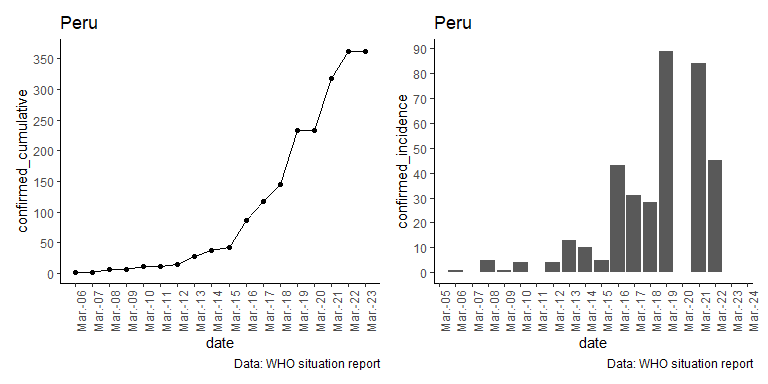
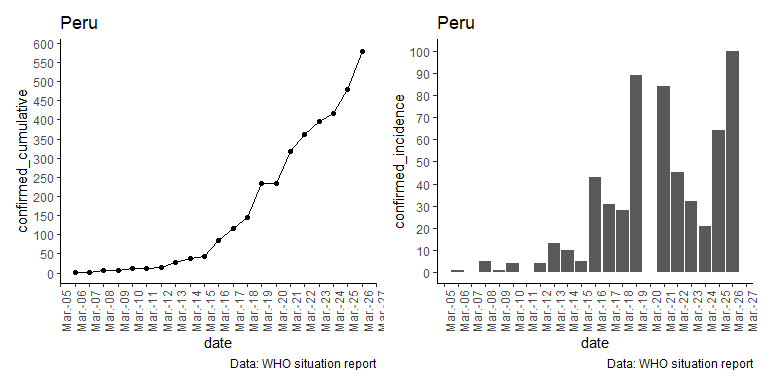
update readme

diff --git a/docs/reference/jhu_sitrep_import.html b/docs/reference/jhu_sitrep_import.html
@@ -121,7 +121,9 @@
 
 <span class='fu'>jhu_sitrep_all_sources_tidy</span>(<span class='no'>data</span>, <span class='kw'>data_filter</span> <span class='kw'>=</span> <span class='no'>data_filter</span>)
 
-<span class='fu'>jhu_sitrep_country_report</span>(<span class='kw'>country_region</span> <span class='kw'>=</span> <span class='st'>"Peru"</span>)</pre>
+<span class='fu'>jhu_sitrep_country_report</span>(<span class='kw'>country_region</span> <span class='kw'>=</span> <span class='st'>"Peru"</span>)
+
+<span class='fu'>jhu_sitrep_cleandb_country_only</span>(<span class='no'>data</span>)</pre>
     
     <h2 class="hasAnchor" id="arguments"><a class="anchor" href="#arguments"></a>Arguments</h2>
     <table class="ref-arguments">
@@ -163,16 +165,17 @@
 <li><p><code>jhu_sitrep_all_sources</code>: clean jhu dataset</p></li>
 <li><p><code>jhu_sitrep_all_sources_tidy</code>: clean jhu dataset</p></li>
 <li><p><code>jhu_sitrep_country_report</code>: clean jhu dataset</p></li>
+<li><p><code>jhu_sitrep_cleandb_country_only</code>: import only numbers for the country</p></li>
 </ul>
     
 
     <h2 class="hasAnchor" id="examples"><a class="anchor" href="#examples"></a>Examples</h2>
     <pre class="examples"><div class='input'>
 <span class='fu'><a href='https://rdrr.io/r/base/library.html'>library</a></span>(<span class='no'>covid19viz</span>)
-<span class='fu'><a href='https://rdrr.io/r/base/library.html'>library</a></span>(<span class='no'>tidyverse</span>)</div><div class='output co'>#&gt; <span class='message'>-- <span style='font-weight: bold;'>Attaching packages</span><span> -------------------------------------------------------- tidyverse 1.2.1 --</span></div><div class='output co'>#&gt; <span class='message'></span><span style='color: #00BB00;'>v</span><span> </span><span style='color: #0000BB;'>ggplot2</span><span> 3.2.1     </span><span style='color: #00BB00;'>v</span><span> </span><span style='color: #0000BB;'>purrr  </span><span> 0.3.3</span>
+<span class='fu'><a href='https://rdrr.io/r/base/library.html'>library</a></span>(<span class='no'>tidyverse</span>)</div><div class='output co'>#&gt; <span class='message'>-- <span style='font-weight: bold;'>Attaching packages</span><span> ---------------------------------------------------------------- tidyverse 1.2.1 --</span></div><div class='output co'>#&gt; <span class='message'></span><span style='color: #00BB00;'>v</span><span> </span><span style='color: #0000BB;'>ggplot2</span><span> 3.2.1     </span><span style='color: #00BB00;'>v</span><span> </span><span style='color: #0000BB;'>purrr  </span><span> 0.3.3</span>
 #&gt; <span class='message'></span><span style='color: #00BB00;'>v</span><span> </span><span style='color: #0000BB;'>tibble </span><span> 2.1.3     </span><span style='color: #00BB00;'>v</span><span> </span><span style='color: #0000BB;'>dplyr  </span><span> 0.8.4</span>
 #&gt; <span class='message'></span><span style='color: #00BB00;'>v</span><span> </span><span style='color: #0000BB;'>tidyr  </span><span> 1.0.0     </span><span style='color: #00BB00;'>v</span><span> </span><span style='color: #0000BB;'>stringr</span><span> 1.4.0</span>
-#&gt; <span class='message'></span><span style='color: #00BB00;'>v</span><span> </span><span style='color: #0000BB;'>readr  </span><span> 1.3.1     </span><span style='color: #00BB00;'>v</span><span> </span><span style='color: #0000BB;'>forcats</span><span> 0.4.0</span></div><div class='output co'>#&gt; <span class='message'>-- </span><span style='font-weight: bold;'>Conflicts</span><span> ----------------------------------------------------------- tidyverse_conflicts() --</span>
+#&gt; <span class='message'></span><span style='color: #00BB00;'>v</span><span> </span><span style='color: #0000BB;'>readr  </span><span> 1.3.1     </span><span style='color: #00BB00;'>v</span><span> </span><span style='color: #0000BB;'>forcats</span><span> 0.4.0</span></div><div class='output co'>#&gt; <span class='message'>-- </span><span style='font-weight: bold;'>Conflicts</span><span> ------------------------------------------------------------------- tidyverse_conflicts() --</span>
 #&gt; <span class='message'></span><span style='color: #BB0000;'>x</span><span> </span><span style='color: #0000BB;'>dplyr</span><span>::</span><span style='color: #00BB00;'>filter()</span><span> masks </span><span style='color: #0000BB;'>stats</span><span>::filter()</span>
 #&gt; <span class='message'></span><span style='color: #BB0000;'>x</span><span> </span><span style='color: #0000BB;'>dplyr</span><span>::</span><span style='color: #00BB00;'>lag()</span><span>    masks </span><span style='color: #0000BB;'>stats</span><span>::lag()</span></div><div class='input'>
 <span class='no'>jhu_sitrep</span> <span class='kw'>&lt;-</span> <span class='fu'>jhu_sitrep_import</span>(<span class='kw'>source</span> <span class='kw'>=</span> <span class='st'>"confirmed"</span>)</div><div class='output co'>#&gt; <span class='message'>Parsed with column specification:</span>
@@ -184,20 +187,91 @@
 <span class='no'>jhu_sitrep</span> <span class='kw'>%&gt;%</span>
   <span class='fu'>jhu_sitrep_cleandb</span>() <span class='kw'>%&gt;%</span>
   <span class='fu'><a href='https://rdrr.io/r/stats/filter.html'>filter</a></span>(<span class='no'>country_region</span><span class='kw'>==</span><span class='st'>"Peru"</span>) <span class='kw'>%&gt;%</span>
-  <span class='fu'>arrange</span>(<span class='fu'>desc</span>(<span class='no'>dates</span>))</div><div class='output co'>#&gt; </span><span style='color: #555555;'># A tibble: 57 x 7</span><span>
+  <span class='fu'>arrange</span>(<span class='fu'>desc</span>(<span class='no'>dates</span>))</div><div class='output co'>#&gt; </span><span style='color: #555555;'># A tibble: 65 x 7</span><span>
 #&gt;    source    country_region province_state   lat  long dates      value
 #&gt;    </span><span style='color: #555555;font-style: italic;'>&lt;chr&gt;</span><span>     </span><span style='color: #555555;font-style: italic;'>&lt;chr&gt;</span><span>          </span><span style='color: #555555;font-style: italic;'>&lt;chr&gt;</span><span>          </span><span style='color: #555555;font-style: italic;'>&lt;dbl&gt;</span><span> </span><span style='color: #555555;font-style: italic;'>&lt;dbl&gt;</span><span> </span><span style='color: #555555;font-style: italic;'>&lt;date&gt;</span><span>     </span><span style='color: #555555;font-style: italic;'>&lt;dbl&gt;</span><span>
-#&gt; </span><span style='color: #555555;'> 1</span><span> confirmed Peru           </span><span style='color: #BB0000;'>NA</span><span>             -</span><span style='color: #BB0000;'>9.19</span><span> -</span><span style='color: #BB0000;'>75.0</span><span> 2020-03-18   145
-#&gt; </span><span style='color: #555555;'> 2</span><span> confirmed Peru           </span><span style='color: #BB0000;'>NA</span><span>             -</span><span style='color: #BB0000;'>9.19</span><span> -</span><span style='color: #BB0000;'>75.0</span><span> 2020-03-17   117
-#&gt; </span><span style='color: #555555;'> 3</span><span> confirmed Peru           </span><span style='color: #BB0000;'>NA</span><span>             -</span><span style='color: #BB0000;'>9.19</span><span> -</span><span style='color: #BB0000;'>75.0</span><span> 2020-03-16    86
-#&gt; </span><span style='color: #555555;'> 4</span><span> confirmed Peru           </span><span style='color: #BB0000;'>NA</span><span>             -</span><span style='color: #BB0000;'>9.19</span><span> -</span><span style='color: #BB0000;'>75.0</span><span> 2020-03-15    43
-#&gt; </span><span style='color: #555555;'> 5</span><span> confirmed Peru           </span><span style='color: #BB0000;'>NA</span><span>             -</span><span style='color: #BB0000;'>9.19</span><span> -</span><span style='color: #BB0000;'>75.0</span><span> 2020-03-14    38
-#&gt; </span><span style='color: #555555;'> 6</span><span> confirmed Peru           </span><span style='color: #BB0000;'>NA</span><span>             -</span><span style='color: #BB0000;'>9.19</span><span> -</span><span style='color: #BB0000;'>75.0</span><span> 2020-03-13    28
-#&gt; </span><span style='color: #555555;'> 7</span><span> confirmed Peru           </span><span style='color: #BB0000;'>NA</span><span>             -</span><span style='color: #BB0000;'>9.19</span><span> -</span><span style='color: #BB0000;'>75.0</span><span> 2020-03-12    15
-#&gt; </span><span style='color: #555555;'> 8</span><span> confirmed Peru           </span><span style='color: #BB0000;'>NA</span><span>             -</span><span style='color: #BB0000;'>9.19</span><span> -</span><span style='color: #BB0000;'>75.0</span><span> 2020-03-11    11
-#&gt; </span><span style='color: #555555;'> 9</span><span> confirmed Peru           </span><span style='color: #BB0000;'>NA</span><span>             -</span><span style='color: #BB0000;'>9.19</span><span> -</span><span style='color: #BB0000;'>75.0</span><span> 2020-03-10    11
-#&gt; </span><span style='color: #555555;'>10</span><span> confirmed Peru           </span><span style='color: #BB0000;'>NA</span><span>             -</span><span style='color: #BB0000;'>9.19</span><span> -</span><span style='color: #BB0000;'>75.0</span><span> 2020-03-09     7
-#&gt; </span><span style='color: #555555;'># ... with 47 more rows</span><span></div><div class='input'>
+#&gt; </span><span style='color: #555555;'> 1</span><span> confirmed Peru           </span><span style='color: #BB0000;'>NA</span><span>             -</span><span style='color: #BB0000;'>9.19</span><span> -</span><span style='color: #BB0000;'>75.0</span><span> 2020-03-26   580
+#&gt; </span><span style='color: #555555;'> 2</span><span> confirmed Peru           </span><span style='color: #BB0000;'>NA</span><span>             -</span><span style='color: #BB0000;'>9.19</span><span> -</span><span style='color: #BB0000;'>75.0</span><span> 2020-03-25   480
+#&gt; </span><span style='color: #555555;'> 3</span><span> confirmed Peru           </span><span style='color: #BB0000;'>NA</span><span>             -</span><span style='color: #BB0000;'>9.19</span><span> -</span><span style='color: #BB0000;'>75.0</span><span> 2020-03-24   416
+#&gt; </span><span style='color: #555555;'> 4</span><span> confirmed Peru           </span><span style='color: #BB0000;'>NA</span><span>             -</span><span style='color: #BB0000;'>9.19</span><span> -</span><span style='color: #BB0000;'>75.0</span><span> 2020-03-23   395
+#&gt; </span><span style='color: #555555;'> 5</span><span> confirmed Peru           </span><span style='color: #BB0000;'>NA</span><span>             -</span><span style='color: #BB0000;'>9.19</span><span> -</span><span style='color: #BB0000;'>75.0</span><span> 2020-03-22   363
+#&gt; </span><span style='color: #555555;'> 6</span><span> confirmed Peru           </span><span style='color: #BB0000;'>NA</span><span>             -</span><span style='color: #BB0000;'>9.19</span><span> -</span><span style='color: #BB0000;'>75.0</span><span> 2020-03-21   318
+#&gt; </span><span style='color: #555555;'> 7</span><span> confirmed Peru           </span><span style='color: #BB0000;'>NA</span><span>             -</span><span style='color: #BB0000;'>9.19</span><span> -</span><span style='color: #BB0000;'>75.0</span><span> 2020-03-20   234
+#&gt; </span><span style='color: #555555;'> 8</span><span> confirmed Peru           </span><span style='color: #BB0000;'>NA</span><span>             -</span><span style='color: #BB0000;'>9.19</span><span> -</span><span style='color: #BB0000;'>75.0</span><span> 2020-03-19   234
+#&gt; </span><span style='color: #555555;'> 9</span><span> confirmed Peru           </span><span style='color: #BB0000;'>NA</span><span>             -</span><span style='color: #BB0000;'>9.19</span><span> -</span><span style='color: #BB0000;'>75.0</span><span> 2020-03-18   145
+#&gt; </span><span style='color: #555555;'>10</span><span> confirmed Peru           </span><span style='color: #BB0000;'>NA</span><span>             -</span><span style='color: #BB0000;'>9.19</span><span> -</span><span style='color: #BB0000;'>75.0</span><span> 2020-03-17   117
+#&gt; </span><span style='color: #555555;'># ... with 55 more rows</span><span></div><div class='input'>
+<span class='no'>jhu_sitrep</span> <span class='kw'>%&gt;%</span>
+  <span class='fu'>jhu_sitrep_cleandb_country_only</span>() <span class='kw'>%&gt;%</span>
+  <span class='fu'><a href='https://rdrr.io/r/stats/filter.html'>filter</a></span>(<span class='no'>country_region</span><span class='kw'>==</span><span class='st'>"Australia"</span>) <span class='kw'>%&gt;%</span>
+  <span class='kw pkg'>avallecam</span><span class='kw ns'>::</span><span class='fu'><a href='https://rdrr.io/pkg/avallecam/man/print_inf.html'>print_inf</a></span>()</div><div class='output co'>#&gt; </span><span style='color: #555555;'># A tibble: 65 x 4</span><span>
+#&gt;    source    country_region dates      value
+#&gt;    </span><span style='color: #555555;font-style: italic;'>&lt;chr&gt;</span><span>     </span><span style='color: #555555;font-style: italic;'>&lt;chr&gt;</span><span>          </span><span style='color: #555555;font-style: italic;'>&lt;date&gt;</span><span>     </span><span style='color: #555555;font-style: italic;'>&lt;dbl&gt;</span><span>
+#&gt; </span><span style='color: #555555;'> 1</span><span> confirmed Australia      2020-01-22     0
+#&gt; </span><span style='color: #555555;'> 2</span><span> confirmed Australia      2020-01-23     0
+#&gt; </span><span style='color: #555555;'> 3</span><span> confirmed Australia      2020-01-24     0
+#&gt; </span><span style='color: #555555;'> 4</span><span> confirmed Australia      2020-01-25     0
+#&gt; </span><span style='color: #555555;'> 5</span><span> confirmed Australia      2020-01-26     4
+#&gt; </span><span style='color: #555555;'> 6</span><span> confirmed Australia      2020-01-27     5
+#&gt; </span><span style='color: #555555;'> 7</span><span> confirmed Australia      2020-01-28     5
+#&gt; </span><span style='color: #555555;'> 8</span><span> confirmed Australia      2020-01-29     6
+#&gt; </span><span style='color: #555555;'> 9</span><span> confirmed Australia      2020-01-30     9
+#&gt; </span><span style='color: #555555;'>10</span><span> confirmed Australia      2020-01-31     9
+#&gt; </span><span style='color: #555555;'>11</span><span> confirmed Australia      2020-02-01    12
+#&gt; </span><span style='color: #555555;'>12</span><span> confirmed Australia      2020-02-02    12
+#&gt; </span><span style='color: #555555;'>13</span><span> confirmed Australia      2020-02-03    12
+#&gt; </span><span style='color: #555555;'>14</span><span> confirmed Australia      2020-02-04    13
+#&gt; </span><span style='color: #555555;'>15</span><span> confirmed Australia      2020-02-05    13
+#&gt; </span><span style='color: #555555;'>16</span><span> confirmed Australia      2020-02-06    14
+#&gt; </span><span style='color: #555555;'>17</span><span> confirmed Australia      2020-02-07    15
+#&gt; </span><span style='color: #555555;'>18</span><span> confirmed Australia      2020-02-08    15
+#&gt; </span><span style='color: #555555;'>19</span><span> confirmed Australia      2020-02-09    15
+#&gt; </span><span style='color: #555555;'>20</span><span> confirmed Australia      2020-02-10    15
+#&gt; </span><span style='color: #555555;'>21</span><span> confirmed Australia      2020-02-11    15
+#&gt; </span><span style='color: #555555;'>22</span><span> confirmed Australia      2020-02-12    15
+#&gt; </span><span style='color: #555555;'>23</span><span> confirmed Australia      2020-02-13    15
+#&gt; </span><span style='color: #555555;'>24</span><span> confirmed Australia      2020-02-14    15
+#&gt; </span><span style='color: #555555;'>25</span><span> confirmed Australia      2020-02-15    15
+#&gt; </span><span style='color: #555555;'>26</span><span> confirmed Australia      2020-02-16    15
+#&gt; </span><span style='color: #555555;'>27</span><span> confirmed Australia      2020-02-17    15
+#&gt; </span><span style='color: #555555;'>28</span><span> confirmed Australia      2020-02-18    15
+#&gt; </span><span style='color: #555555;'>29</span><span> confirmed Australia      2020-02-19    15
+#&gt; </span><span style='color: #555555;'>30</span><span> confirmed Australia      2020-02-20    15
+#&gt; </span><span style='color: #555555;'>31</span><span> confirmed Australia      2020-02-21    15
+#&gt; </span><span style='color: #555555;'>32</span><span> confirmed Australia      2020-02-22    15
+#&gt; </span><span style='color: #555555;'>33</span><span> confirmed Australia      2020-02-23    15
+#&gt; </span><span style='color: #555555;'>34</span><span> confirmed Australia      2020-02-24    15
+#&gt; </span><span style='color: #555555;'>35</span><span> confirmed Australia      2020-02-25    15
+#&gt; </span><span style='color: #555555;'>36</span><span> confirmed Australia      2020-02-26    15
+#&gt; </span><span style='color: #555555;'>37</span><span> confirmed Australia      2020-02-27    15
+#&gt; </span><span style='color: #555555;'>38</span><span> confirmed Australia      2020-02-28    15
+#&gt; </span><span style='color: #555555;'>39</span><span> confirmed Australia      2020-02-29    25
+#&gt; </span><span style='color: #555555;'>40</span><span> confirmed Australia      2020-03-01    27
+#&gt; </span><span style='color: #555555;'>41</span><span> confirmed Australia      2020-03-02    30
+#&gt; </span><span style='color: #555555;'>42</span><span> confirmed Australia      2020-03-03    39
+#&gt; </span><span style='color: #555555;'>43</span><span> confirmed Australia      2020-03-04    52
+#&gt; </span><span style='color: #555555;'>44</span><span> confirmed Australia      2020-03-05    55
+#&gt; </span><span style='color: #555555;'>45</span><span> confirmed Australia      2020-03-06    60
+#&gt; </span><span style='color: #555555;'>46</span><span> confirmed Australia      2020-03-07    63
+#&gt; </span><span style='color: #555555;'>47</span><span> confirmed Australia      2020-03-08    76
+#&gt; </span><span style='color: #555555;'>48</span><span> confirmed Australia      2020-03-09    91
+#&gt; </span><span style='color: #555555;'>49</span><span> confirmed Australia      2020-03-10   107
+#&gt; </span><span style='color: #555555;'>50</span><span> confirmed Australia      2020-03-11   128
+#&gt; </span><span style='color: #555555;'>51</span><span> confirmed Australia      2020-03-12   128
+#&gt; </span><span style='color: #555555;'>52</span><span> confirmed Australia      2020-03-13   200
+#&gt; </span><span style='color: #555555;'>53</span><span> confirmed Australia      2020-03-14   250
+#&gt; </span><span style='color: #555555;'>54</span><span> confirmed Australia      2020-03-15   297
+#&gt; </span><span style='color: #555555;'>55</span><span> confirmed Australia      2020-03-16   377
+#&gt; </span><span style='color: #555555;'>56</span><span> confirmed Australia      2020-03-17   452
+#&gt; </span><span style='color: #555555;'>57</span><span> confirmed Australia      2020-03-18   568
+#&gt; </span><span style='color: #555555;'>58</span><span> confirmed Australia      2020-03-19   681
+#&gt; </span><span style='color: #555555;'>59</span><span> confirmed Australia      2020-03-20   791
+#&gt; </span><span style='color: #555555;'>60</span><span> confirmed Australia      2020-03-21  </span><span style='text-decoration: underline;'>1</span><span>071
+#&gt; </span><span style='color: #555555;'>61</span><span> confirmed Australia      2020-03-22  </span><span style='text-decoration: underline;'>1</span><span>549
+#&gt; </span><span style='color: #555555;'>62</span><span> confirmed Australia      2020-03-23  </span><span style='text-decoration: underline;'>1</span><span>682
+#&gt; </span><span style='color: #555555;'>63</span><span> confirmed Australia      2020-03-24  </span><span style='text-decoration: underline;'>2</span><span>044
+#&gt; </span><span style='color: #555555;'>64</span><span> confirmed Australia      2020-03-25  </span><span style='text-decoration: underline;'>2</span><span>364
+#&gt; </span><span style='color: #555555;'>65</span><span> confirmed Australia      2020-03-26  </span><span style='text-decoration: underline;'>2</span><span>810</div><div class='input'>
 <span class='fu'>jhu_sitrep_import</span>(<span class='kw'>source</span> <span class='kw'>=</span> <span class='st'>"confirmed"</span>) <span class='kw'>%&gt;%</span>
   <span class='fu'>jhu_sitrep_cleandb</span>() <span class='kw'>%&gt;%</span>
   <span class='fu'>jhu_sitrep_filter</span>(<span class='kw'>country_region</span><span class='kw'>=</span><span class='st'>"all"</span>) <span class='kw'>%&gt;%</span>
@@ -206,7 +280,7 @@
 #&gt; <span class='message'>  .default = col_double(),</span>
 #&gt; <span class='message'>  `Province/State` = </span><span style='color: #BB0000;'>col_character()</span><span>,</span>
 #&gt; <span class='message'>  `Country/Region` = </span><span style='color: #BB0000;'>col_character()</span><span></span>
-#&gt; <span class='message'>)</span></div><div class='output co'>#&gt; <span class='message'>See spec(...) for full column specifications.</span></div><div class='output co'>#&gt; [1] 214915</div><div class='input'>
+#&gt; <span class='message'>)</span></div><div class='output co'>#&gt; <span class='message'>See spec(...) for full column specifications.</span></div><div class='output co'>#&gt; [1] 529591</div><div class='input'>
 <span class='fu'>jhu_sitrep_all_sources</span>(<span class='kw'>country_region</span><span class='kw'>=</span><span class='st'>"Peru"</span>)</div><div class='output co'>#&gt; <span class='message'>Parsed with column specification:</span>
 #&gt; <span class='message'>cols(</span>
 #&gt; <span class='message'>  .default = col_double(),</span>
@@ -225,9 +299,9 @@
 #&gt; <span class='message'>)</span></div><div class='output co'>#&gt; <span class='message'>See spec(...) for full column specifications.</span></div><div class='output co'>#&gt; </span><span style='color: #555555;'># A tibble: 3 x 4</span><span>
 #&gt;   country_region source    data_filter       sum_data
 #&gt;   </span><span style='color: #555555;font-style: italic;'>&lt;chr&gt;</span><span>          </span><span style='color: #555555;font-style: italic;'>&lt;chr&gt;</span><span>     </span><span style='color: #555555;font-style: italic;'>&lt;list&gt;</span><span>               </span><span style='color: #555555;font-style: italic;'>&lt;dbl&gt;</span><span>
-#&gt; </span><span style='color: #555555;'>1</span><span> Peru           confirmed </span><span style='color: #555555;'>&lt;tibble [57 x 7]&gt;</span><span>      145
-#&gt; </span><span style='color: #555555;'>2</span><span> Peru           deaths    </span><span style='color: #555555;'>&lt;tibble [57 x 7]&gt;</span><span>        0
-#&gt; </span><span style='color: #555555;'>3</span><span> Peru           recovered </span><span style='color: #555555;'>&lt;tibble [57 x 7]&gt;</span><span>        1</div><div class='input'>
+#&gt; </span><span style='color: #555555;'>1</span><span> Peru           confirmed </span><span style='color: #555555;'>&lt;tibble [65 x 7]&gt;</span><span>      580
+#&gt; </span><span style='color: #555555;'>2</span><span> Peru           deaths    </span><span style='color: #555555;'>&lt;tibble [65 x 7]&gt;</span><span>        9
+#&gt; </span><span style='color: #555555;'>3</span><span> Peru           recovered </span><span style='color: #555555;'>&lt;tibble [65 x 7]&gt;</span><span>       14</div><div class='input'>
 </div></span></pre>
   </div>
   <div class="col-md-3 hidden-xs hidden-sm" id="sidebar">

diff --git a/docs/index.html b/docs/index.html
@@ -115,25 +115,25 @@ install.packages("covid19viz")
 <a class="sourceLine" id="cb3-8" title="8"><span class="co">#&gt; # A tibble: 3 x 4</span></a>
 <a class="sourceLine" id="cb3-9" title="9"><span class="co">#&gt;   country_region source    data_filter       sum_data</span></a>
 <a class="sourceLine" id="cb3-10" title="10"><span class="co">#&gt;   &lt;chr&gt;          &lt;chr&gt;     &lt;list&gt;               &lt;dbl&gt;</span></a>
-<a class="sourceLine" id="cb3-11" title="11"><span class="co">#&gt; 1 Peru           confirmed &lt;tibble [57 x 7]&gt;      145</span></a>
-<a class="sourceLine" id="cb3-12" title="12"><span class="co">#&gt; 2 Peru           deaths    &lt;tibble [57 x 7]&gt;        0</span></a>
-<a class="sourceLine" id="cb3-13" title="13"><span class="co">#&gt; 3 Peru           recovered &lt;tibble [57 x 7]&gt;        1</span></a>
+<a class="sourceLine" id="cb3-11" title="11"><span class="co">#&gt; 1 Peru           confirmed &lt;tibble [65 x 7]&gt;      580</span></a>
+<a class="sourceLine" id="cb3-12" title="12"><span class="co">#&gt; 2 Peru           deaths    &lt;tibble [65 x 7]&gt;        9</span></a>
+<a class="sourceLine" id="cb3-13" title="13"><span class="co">#&gt; 3 Peru           recovered &lt;tibble [65 x 7]&gt;       14</span></a>
 <a class="sourceLine" id="cb3-14" title="14"></a>
 <a class="sourceLine" id="cb3-15" title="15"><span class="co">#transform to tidy format</span></a>
 <a class="sourceLine" id="cb3-16" title="16">jhu_sitrep_peru <span class="op">%&gt;%</span><span class="st"> </span></a>
 <a class="sourceLine" id="cb3-17" title="17"><span class="st">  </span><span class="kw"><a href="reference/jhu_sitrep_import.html">jhu_sitrep_all_sources_tidy</a></span>() <span class="op">%&gt;%</span><span class="st"> </span></a>
 <a class="sourceLine" id="cb3-18" title="18"><span class="st">  </span><span class="kw">arrange</span>(<span class="kw">desc</span>(confirmed_cumulative)) <span class="op">%&gt;%</span><span class="st"> </span></a>
 <a class="sourceLine" id="cb3-19" title="19"><span class="st">  </span><span class="kw">glimpse</span>()</a>
-<a class="sourceLine" id="cb3-20" title="20"><span class="co">#&gt; Observations: 57</span></a>
+<a class="sourceLine" id="cb3-20" title="20"><span class="co">#&gt; Observations: 65</span></a>
 <a class="sourceLine" id="cb3-21" title="21"><span class="co">#&gt; Variables: 8</span></a>
 <a class="sourceLine" id="cb3-22" title="22"><span class="co">#&gt; $ country_region       &lt;chr&gt; "Peru", "Peru", "Peru", "Peru", "Peru", "...</span></a>
-<a class="sourceLine" id="cb3-23" title="23"><span class="co">#&gt; $ date                 &lt;date&gt; 2020-03-18, 2020-03-17, 2020-03-16, 2020...</span></a>
-<a class="sourceLine" id="cb3-24" title="24"><span class="co">#&gt; $ confirmed_cumulative &lt;dbl&gt; 145, 117, 86, 43, 38, 28, 15, 11, 11, 7, ...</span></a>
-<a class="sourceLine" id="cb3-25" title="25"><span class="co">#&gt; $ deaths_cumulative    &lt;dbl&gt; 0, 0, 0, 0, 0, 0, 0, 0, 0, 0, 0, 0, 0, 0,...</span></a>
-<a class="sourceLine" id="cb3-26" title="26"><span class="co">#&gt; $ recovered_cumulative &lt;dbl&gt; 1, 1, 0, 0, 0, 0, 0, 0, 0, 0, 0, 0, 0, 0,...</span></a>
-<a class="sourceLine" id="cb3-27" title="27"><span class="co">#&gt; $ confirmed_incidence  &lt;dbl&gt; 28, 31, 43, 5, 10, 13, 4, 4, 0, 1, 5, 1, ...</span></a>
-<a class="sourceLine" id="cb3-28" title="28"><span class="co">#&gt; $ deaths_incidence     &lt;dbl&gt; 0, 0, 0, 0, 0, 0, 0, 0, 0, 0, 0, 0, 0, 0,...</span></a>
-<a class="sourceLine" id="cb3-29" title="29"><span class="co">#&gt; $ recovered_incidence  &lt;dbl&gt; 0, 1, 0, 0, 0, 0, 0, 0, 0, 0, 0, 0, 0, 0,...</span></a></code></pre></div>
+<a class="sourceLine" id="cb3-23" title="23"><span class="co">#&gt; $ date                 &lt;date&gt; 2020-03-26, 2020-03-25, 2020-03-24, 2020...</span></a>
+<a class="sourceLine" id="cb3-24" title="24"><span class="co">#&gt; $ confirmed_cumulative &lt;dbl&gt; 580, 480, 416, 395, 363, 318, 234, 234, 1...</span></a>
+<a class="sourceLine" id="cb3-25" title="25"><span class="co">#&gt; $ deaths_cumulative    &lt;dbl&gt; 9, 9, 7, 5, 5, 5, 0, 3, 0, 0, 0, 0, 0, 0,...</span></a>
+<a class="sourceLine" id="cb3-26" title="26"><span class="co">#&gt; $ recovered_cumulative &lt;dbl&gt; 14, 1, 1, 1, 1, 1, 1, 1, 1, 1, 0, 0, 0, 0...</span></a>
+<a class="sourceLine" id="cb3-27" title="27"><span class="co">#&gt; $ confirmed_incidence  &lt;dbl&gt; 100, 64, 21, 32, 45, 84, 89, 0, 28, 31, 4...</span></a>
+<a class="sourceLine" id="cb3-28" title="28"><span class="co">#&gt; $ deaths_incidence     &lt;dbl&gt; 0, 2, 2, 0, 0, 2, 0, 3, 0, 0, 0, 0, 0, 0,...</span></a>
+<a class="sourceLine" id="cb3-29" title="29"><span class="co">#&gt; $ recovered_incidence  &lt;dbl&gt; 13, 0, 0, 0, 0, 0, 0, 0, 0, 1, 0, 0, 0, 0...</span></a></code></pre></div>
 <div class="sourceCode" id="cb4"><pre class="sourceCode r"><code class="sourceCode r"><a class="sourceLine" id="cb4-1" title="1"><span class="kw"><a href="reference/jhu_sitrep_import.html">jhu_sitrep_country_report</a></span>(<span class="dt">country_region =</span> <span class="st">"Peru"</span>)</a></code></pre></div>
 <p><img src="reference/figures/README-unnamed-chunk-4-1.png" width="100%" style="display: block; margin: auto;"></p>
 </div>

diff --git a/docs/reference/index.html b/docs/reference/index.html
@@ -116,7 +116,7 @@
       <tr>
         
         <td>
-          <p><code><a href="jhu_sitrep_import.html">jhu_sitrep_import()</a></code> <code><a href="jhu_sitrep_import.html">jhu_sitrep_cleandb()</a></code> <code><a href="jhu_sitrep_import.html">jhu_sitrep_filter()</a></code> <code><a href="jhu_sitrep_import.html">jhu_sitrep_cumulative()</a></code> <code><a href="jhu_sitrep_import.html">jhu_sitrep_all_sources()</a></code> <code><a href="jhu_sitrep_import.html">jhu_sitrep_all_sources_tidy()</a></code> <code><a href="jhu_sitrep_import.html">jhu_sitrep_country_report()</a></code> </p>
+          <p><code><a href="jhu_sitrep_import.html">jhu_sitrep_import()</a></code> <code><a href="jhu_sitrep_import.html">jhu_sitrep_cleandb()</a></code> <code><a href="jhu_sitrep_import.html">jhu_sitrep_filter()</a></code> <code><a href="jhu_sitrep_import.html">jhu_sitrep_cumulative()</a></code> <code><a href="jhu_sitrep_import.html">jhu_sitrep_all_sources()</a></code> <code><a href="jhu_sitrep_import.html">jhu_sitrep_all_sources_tidy()</a></code> <code><a href="jhu_sitrep_import.html">jhu_sitrep_country_report()</a></code> <code><a href="jhu_sitrep_import.html">jhu_sitrep_cleandb_country_only()</a></code> </p>
         </td>
         <td><p>jhu sitrep data management and visualization</p></td>
       </tr><tr>

diff --git a/README.md b/README.md
@@ -72,25 +72,25 @@ jhu_sitrep_peru
 #> # A tibble: 3 x 4
 #>   country_region source    data_filter       sum_data
 #>   <chr>          <chr>     <list>               <dbl>
-#> 1 Peru           confirmed <tibble [62 x 7]>      363
-#> 2 Peru           deaths    <tibble [62 x 7]>        5
-#> 3 Peru           recovered <tibble [62 x 7]>        1
+#> 1 Peru           confirmed <tibble [65 x 7]>      580
+#> 2 Peru           deaths    <tibble [65 x 7]>        9
+#> 3 Peru           recovered <tibble [65 x 7]>       14
 
 #transform to tidy format
 jhu_sitrep_peru %>% 
   jhu_sitrep_all_sources_tidy() %>% 
   arrange(desc(confirmed_cumulative)) %>% 
   glimpse()
-#> Observations: 62
+#> Observations: 65
 #> Variables: 8
 #> $ country_region       <chr> "Peru", "Peru", "Peru", "Peru", "Peru", "...
-#> $ date                 <date> 2020-03-22, 2020-03-23, 2020-03-21, 2020...
-#> $ confirmed_cumulative <dbl> 363, 363, 318, 234, 234, 145, 117, 86, 43...
-#> $ deaths_cumulative    <dbl> 5, 5, 5, 0, 3, 0, 0, 0, 0, 0, 0, 0, 0, 0,...
-#> $ recovered_cumulative <dbl> 1, 1, 1, 1, 1, 1, 1, 0, 0, 0, 0, 0, 0, 0,...
-#> $ confirmed_incidence  <dbl> 45, 0, 84, 89, 0, 28, 31, 43, 5, 10, 13, ...
-#> $ deaths_incidence     <dbl> 0, 0, 2, 0, 3, 0, 0, 0, 0, 0, 0, 0, 0, 0,...
-#> $ recovered_incidence  <dbl> 0, 0, 0, 0, 0, 0, 1, 0, 0, 0, 0, 0, 0, 0,...
+#> $ date                 <date> 2020-03-26, 2020-03-25, 2020-03-24, 2020...
+#> $ confirmed_cumulative <dbl> 580, 480, 416, 395, 363, 318, 234, 234, 1...
+#> $ deaths_cumulative    <dbl> 9, 9, 7, 5, 5, 5, 0, 3, 0, 0, 0, 0, 0, 0,...
+#> $ recovered_cumulative <dbl> 14, 1, 1, 1, 1, 1, 1, 1, 1, 1, 0, 0, 0, 0...
+#> $ confirmed_incidence  <dbl> 100, 64, 21, 32, 45, 84, 89, 0, 28, 31, 4...
+#> $ deaths_incidence     <dbl> 0, 2, 2, 0, 0, 2, 0, 3, 0, 0, 0, 0, 0, 0,...
+#> $ recovered_incidence  <dbl> 13, 0, 0, 0, 0, 0, 0, 0, 0, 1, 0, 0, 0, 0...
 ```
 
 ``` r
